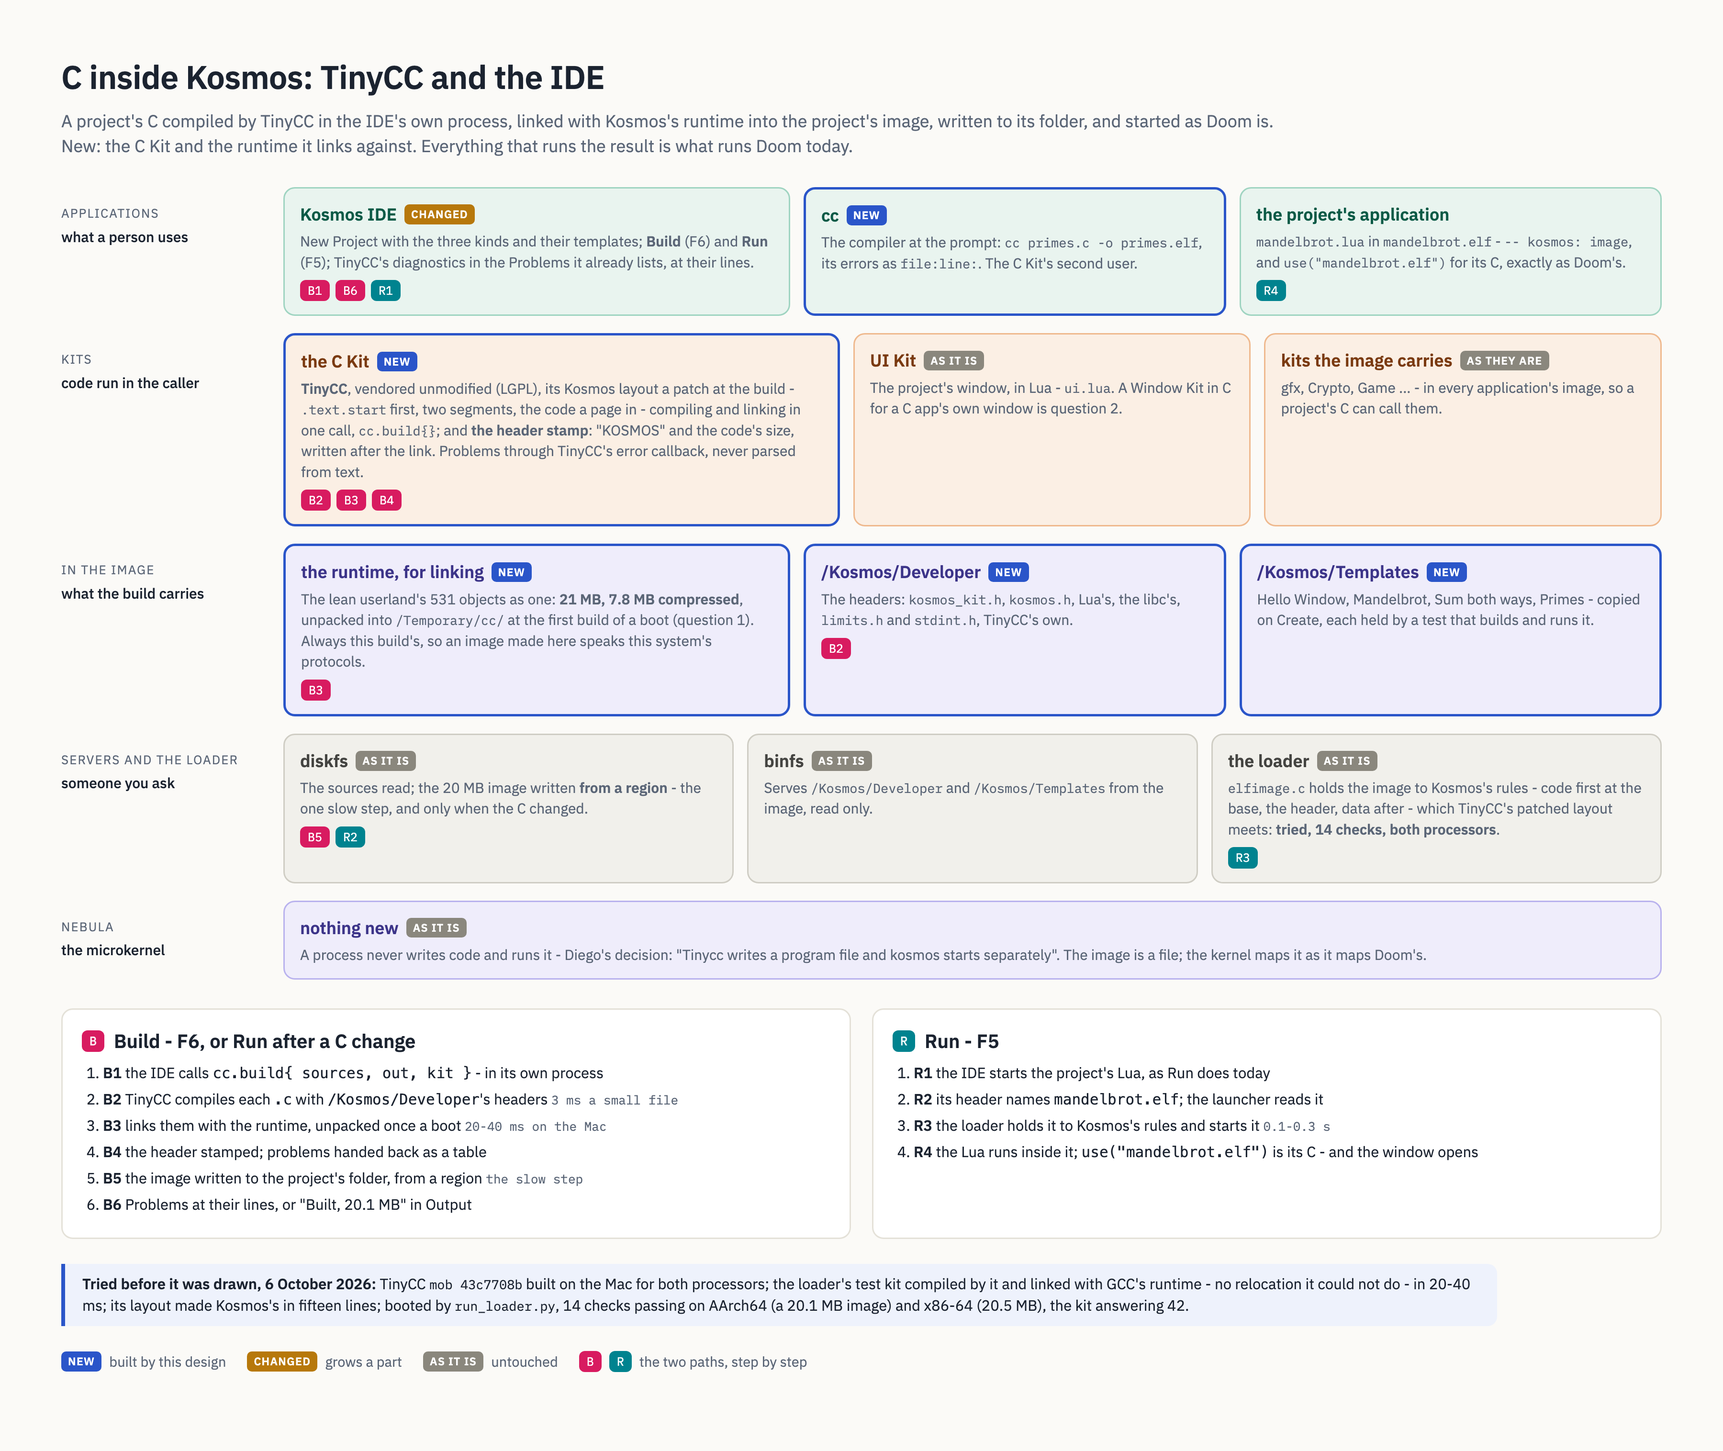
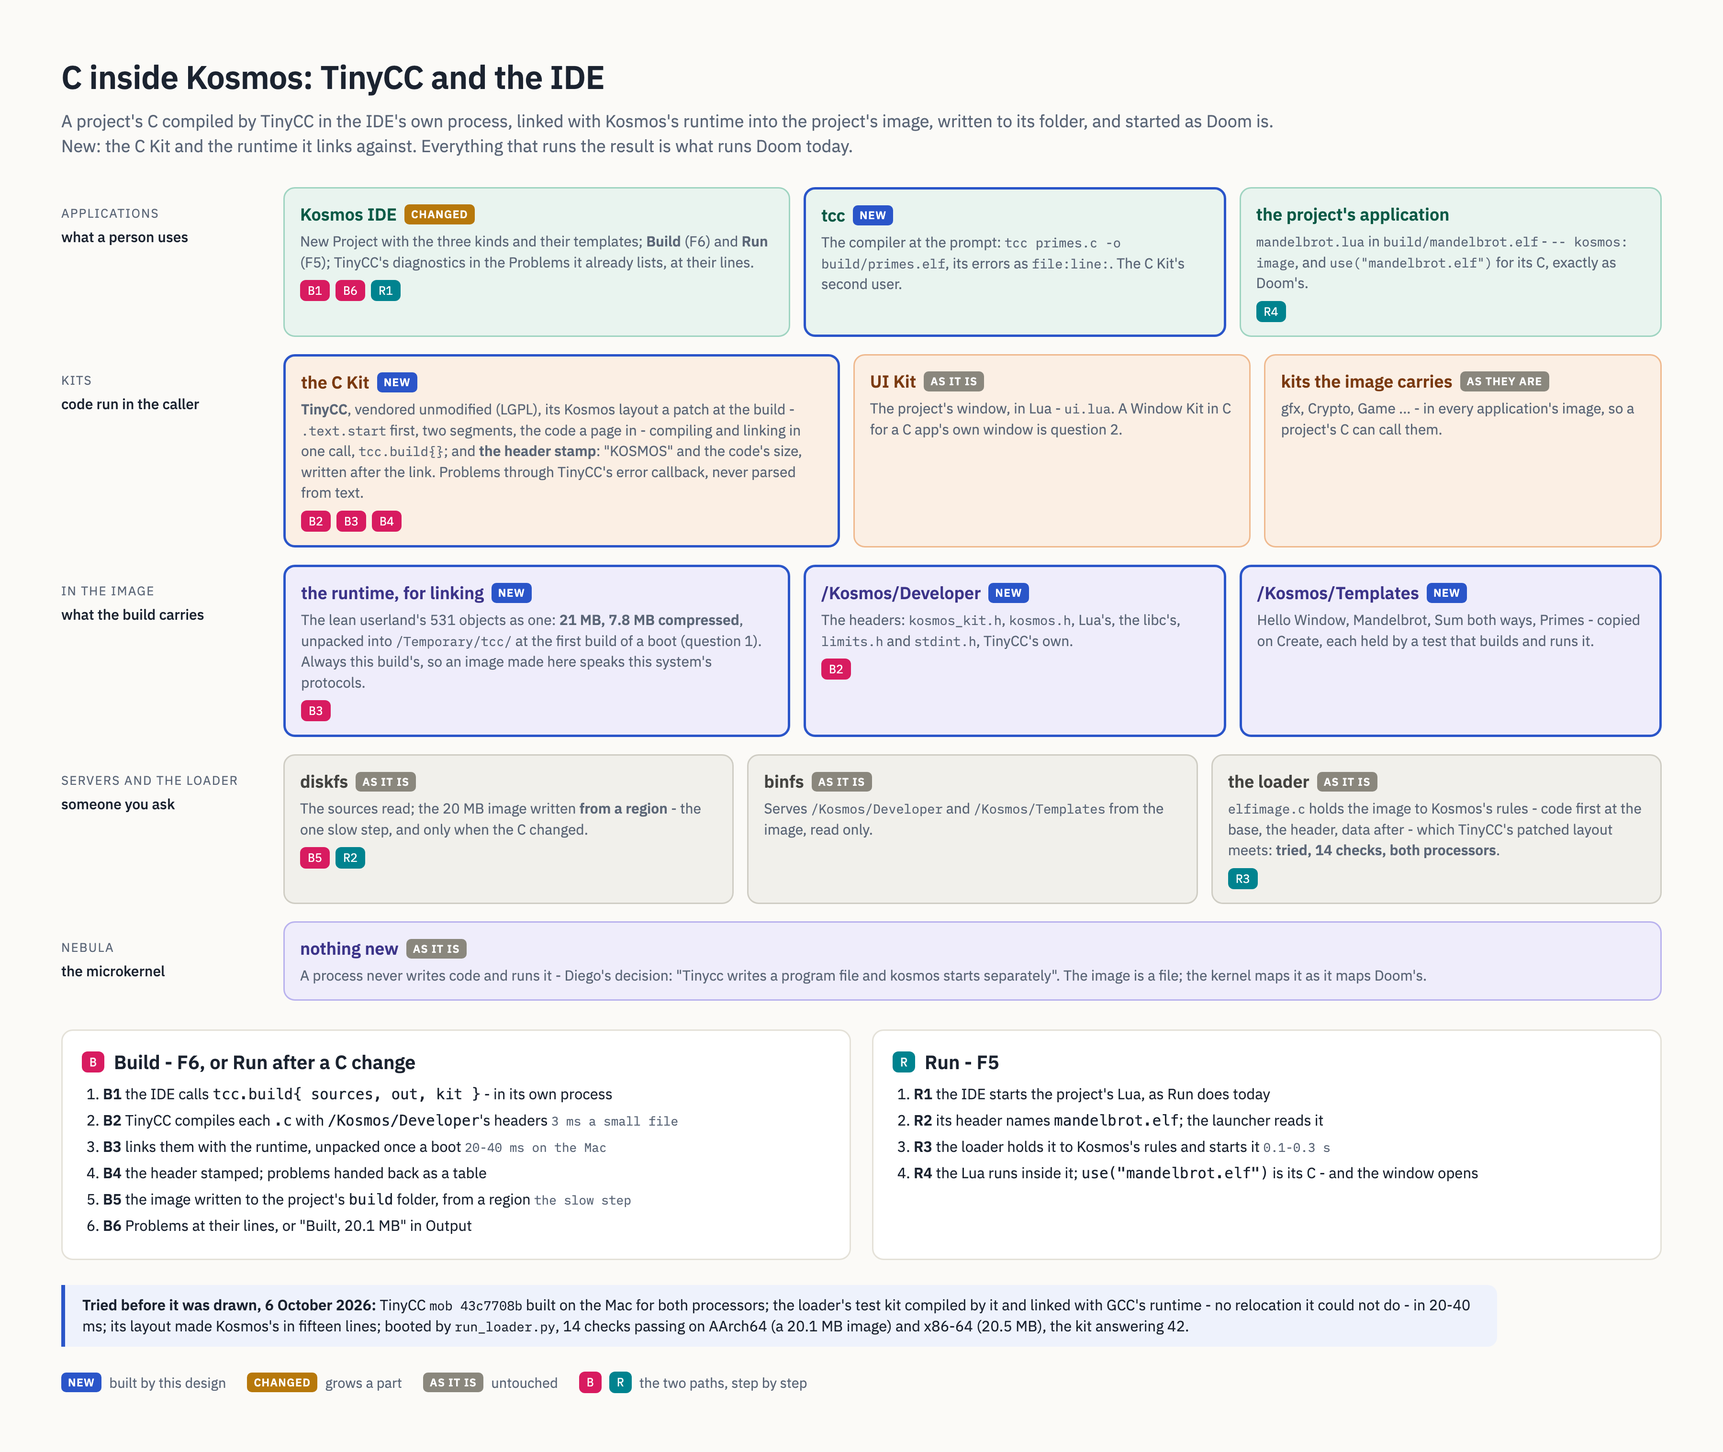
TinyCC: Diego's answers - the runtime in the image, C apps print first, the four templates, a build folder, tcc

diff --git a/docs/tinycc.html b/docs/tinycc.html
@@ -161,7 +161,7 @@
     <button data-s="new" aria-pressed="true">New Project</button>
     <button data-s="err" aria-pressed="false">Build: an error at its line</button>
     <button data-s="run" aria-pressed="false">Built, and running</button>
-    <button data-s="cc" aria-pressed="false">cc at the prompt</button>
+    <button data-s="cc" aria-pressed="false">tcc at the prompt</button>
   </div>
 
   <div class="stage">
@@ -211,7 +211,7 @@
             <div class="row">&#9662; Mandelbrot<span class="k">Lua + C</span></div>
             <div class="row"><span class="ind"></span>mandelbrot.lua</div>
             <div class="row on"><span class="ind"></span>fractal.c</div>
-            <div class="row made"><span class="ind"></span>mandelbrot.elf<span class="k">made</span></div>
+            <div class="row made"><span class="ind"></span>&#9662; build<span class="k">made</span></div><div class="row made"><span class="ind"></span><span class="ind"></span>mandelbrot.elf</div>
             <div class="cap" style="margin-top:14px">Kosmos</div>
             <div class="row">&#9656; Libraries</div><div class="row">&#9656; Kits</div><div class="row">&#9656; Developer &middot; headers</div>
           </div>
@@ -267,13 +267,13 @@
             <div class="row">&#9662; Mandelbrot<span class="k">Lua + C</span></div>
             <div class="row on"><span class="ind"></span>mandelbrot.lua</div>
             <div class="row"><span class="ind"></span>fractal.c</div>
-            <div class="row made"><span class="ind"></span>mandelbrot.elf<span class="k">20.1 MB</span></div>
+            <div class="row made"><span class="ind"></span>&#9662; build<span class="k">made</span></div><div class="row made"><span class="ind"></span><span class="ind"></span>mandelbrot.elf<span class="k">20.1 MB</span></div>
           </div>
           <div class="main">
             <div class="tabs"><div class="tab on">mandelbrot.lua</div><div class="tab">fractal.c</div></div>
             <div class="code">
 <div class="ln"><span class="n">1</span><span><span class="com">-- kosmos: application</span></span></div>
-<div class="ln"><span class="n">2</span><span><span class="com">-- kosmos: image mandelbrot.elf</span></span></div>
+<div class="ln"><span class="n">2</span><span><span class="com">-- kosmos: image build/mandelbrot.elf</span></span></div>
 <div class="ln"><span class="n">3</span><span></span></div>
 <div class="ln"><span class="n">4</span><span><span class="kw">local</span> ui = <span class="fn">use</span>(<span class="str">"/Kosmos/Libraries/ui.lua"</span>)</span></div>
 <div class="ln"><span class="n">5</span><span><span class="kw">local</span> fractal = <span class="fn">use</span>(<span class="str">"mandelbrot.elf"</span>)   <span class="com">-- the C, in this image</span></span></div>
@@ -289,7 +289,7 @@
               <div class="ptabs"><div class="ptab">Problems</div><div class="ptab on">Output</div></div>
               <div class="out">
                 <div class="d">Build: fractal.c compiled in 4 ms, linked with Kosmos's runtime in 0.16 s</div>
-                <div class="ok">Built mandelbrot.elf - 20.1 MB, written in 1.9 s</div>
+                <div class="ok">Built build/mandelbrot.elf - 20.1 MB, written in 1.9 s</div>
                 <div class="d">Run: mandelbrot.lua, in mandelbrot.elf</div>
                 <div>C: 38 ms for 166,400 pixels</div>
                 <div>Lua alone: 1,240 ms - the same picture</div>
@@ -306,12 +306,12 @@
     <div class="state" id="s-cc">
       <div class="term"><div class="bar">Terminal <span>/Home/Projects/Primes</span></div>
 <pre><span class="p">kosmos&gt;</span> ls
-primes.c   primes.lua
-<span class="p">kosmos&gt;</span> cc primes.c -o primes.elf
+build/   primes.c   primes.lua
+<span class="p">kosmos&gt;</span> tcc primes.c -o build/primes.elf
 <span class="e">primes.c:9:12: error: 'limit' undeclared</span>
 <span class="p">kosmos&gt;</span> edit primes.c
-<span class="p">kosmos&gt;</span> cc primes.c -o primes.elf
-<span class="ok">cc: primes.elf, 20.1 MB - compiled in 3 ms, linked in 0.16 s</span>
+<span class="p">kosmos&gt;</span> tcc primes.c -o build/primes.elf
+<span class="ok">tcc: build/primes.elf, 20.1 MB - compiled in 3 ms, linked in 0.16 s</span>
 <span class="p">kosmos&gt;</span> ./primes.lua 10000000
 664579 primes under 10000000, in 1.42 s
 <span class="p">kosmos&gt;</span> <span class="d">_</span></pre>
@@ -325,7 +325,7 @@ primes.c   primes.lua
     <div><b>Build</b> (F6) compiles the C with TinyCC and links it with Kosmos's runtime into the project's image. Its errors are the Problems the IDE already lists, each a click from its line. A build that fails writes nothing.</div>
     <div><b>Run</b> (F5) builds first when a C file changed, then starts the Lua inside the image - <code>-- kosmos: image</code>, as Doom is. A change to the Lua alone builds nothing.</div>
     <div><b>The image is made, not written</b>: greyed in the tree, with its size. It is a whole program, so the project folder can be copied to another Kosmos and run there.</div>
-    <div><b><code>cc</code></b> is the same compiler at the prompt - in a Terminal, over telnet, after editing in Write.</div>
+    <div><b><code>tcc</code></b> is the same compiler at the prompt - in a Terminal, over telnet, after editing in Write.</div>
     <div><b>Not drawn</b>: a C app with a window of its own (question 2 in <code>docs/tinycc.md</code>), and a debugger, which is later.</div>
   </div>
 </div>

diff --git a/docs/tinycc-architecture.html b/docs/tinycc-architecture.html
@@ -85,11 +85,11 @@
         <p>New Project with the three kinds and their templates; <b>Build</b> (F6) and <b>Run</b> (F5);
         TinyCC's diagnostics in the Problems it already lists, at their lines.</p>
         <div class="steps"><span class="st b">B1</span><span class="st b">B6</span><span class="st r">R1</span></div></div>
-      <div class="box u isnew"><h3>cc <span class="tag new">new</span></h3>
-        <p>The compiler at the prompt: <code>cc primes.c -o primes.elf</code>, its errors as <code>file:line:</code>.
+      <div class="box u isnew"><h3>tcc <span class="tag new">new</span></h3>
+        <p>The compiler at the prompt: <code>tcc primes.c -o build/primes.elf</code>, its errors as <code>file:line:</code>.
         The C Kit's second user.</p></div>
       <div class="box u"><h3>the project's application</h3>
-        <p><code>mandelbrot.lua</code> in <code>mandelbrot.elf</code> - <code>-- kosmos: image</code>, and
+        <p><code>mandelbrot.lua</code> in <code>build/mandelbrot.elf</code> - <code>-- kosmos: image</code>, and
         <code>use("mandelbrot.elf")</code> for its C, exactly as Doom's.</p>
         <div class="steps"><span class="st r">R4</span></div></div>
     </div></div>
@@ -98,7 +98,7 @@
     <div class="row" style="grid-template-columns: 1.4fr 1fr 1fr">
       <div class="box k isnew"><h3>the C Kit <span class="tag new">new</span></h3>
         <p><b>TinyCC</b>, vendored unmodified (LGPL), its Kosmos layout a patch at the build - <code>.text.start</code> first,
-        two segments, the code a page in - compiling and linking in one call, <code>cc.build{}</code>;
+        two segments, the code a page in - compiling and linking in one call, <code>tcc.build{}</code>;
         and <b>the header stamp</b>: "KOSMOS" and the code's size, written after the link.
         Problems through TinyCC's error callback, never parsed from text.</p>
         <div class="steps"><span class="st b">B2</span><span class="st b">B3</span><span class="st b">B4</span></div></div>
@@ -112,7 +112,7 @@
     <div class="row" style="grid-template-columns: 1.2fr 1fr 1fr">
       <div class="box n isnew"><h3>the runtime, for linking <span class="tag new">new</span></h3>
         <p>The lean userland's 531 objects as one: <b>21 MB, 7.8 MB compressed</b>, unpacked into
-        <code>/Temporary/cc/</code> at the first build of a boot (question 1). Always this build's, so an image
+        <code>/Temporary/tcc/</code> at the first build of a boot (question 1). Always this build's, so an image
         made here speaks this system's protocols.</p>
         <div class="steps"><span class="st b">B3</span></div></div>
       <div class="box n isnew"><h3>/Kosmos/Developer <span class="tag new">new</span></h3>
@@ -144,11 +144,11 @@
   <div class="paths">
     <div class="path"><h2><span class="st b">B</span> Build - F6, or Run after a C change</h2>
       <ol>
-        <li><b>B1</b> the IDE calls <code>cc.build{ sources, out, kit }</code> - in its own process</li>
+        <li><b>B1</b> the IDE calls <code>tcc.build{ sources, out, kit }</code> - in its own process</li>
         <li><b>B2</b> TinyCC compiles each <code>.c</code> with <code>/Kosmos/Developer</code>'s headers <span class="t">3 ms a small file</span></li>
         <li><b>B3</b> links them with the runtime, unpacked once a boot <span class="t">20-40 ms on the Mac</span></li>
         <li><b>B4</b> the header stamped; problems handed back as a table</li>
-        <li><b>B5</b> the image written to the project's folder, from a region <span class="t">the slow step</span></li>
+        <li><b>B5</b> the image written to the project's <code>build</code> folder, from a region <span class="t">the slow step</span></li>
         <li><b>B6</b> Problems at their lines, or "Built, 20.1 MB" in Output</li>
       </ol></div>
     <div class="path"><h2><span class="st r">R</span> Run - F5</h2>

diff --git a/docs/tinycc.md b/docs/tinycc.md
@@ -54,7 +54,7 @@ start with".
 
 ### At the prompt
 
-- **`cc`**, the compiler as a program: `cc primes.c -o primes.elf` - the same
+- **`tcc`**, the compiler as a program: `tcc primes.c -o build/primes.elf` - the same
   build the IDE does, its diagnostics as `file:line: error: ...` - for a C
   program written in Write, in a Terminal, or over telnet.
 
@@ -124,8 +124,8 @@ work: where things live, and what each piece is.
 |---|---|---|
 | **New Project, Build, Run, Problems** | the IDE's | `ide.lua`, grown; New Project a dialog of its own |
 | **Templates** | three project folders, read-only, copied on Create | `/Kosmos/Templates/` in the image, new |
-| **The compiler** | TinyCC, compiling and linking in one process | **the C Kit**, new: `user/kits/cc/`, TinyCC vendored unmodified in `runtime/upstream/tinycc/` with a Kosmos patch applied at the build |
-| **`cc`** | the compiler at the prompt | `user/bin/programs/cc.lua`, new, the C Kit's first user |
+| **The compiler** | TinyCC, compiling and linking in one process | **the C Kit**, new: `user/kits/tcc/`, TinyCC vendored unmodified in `runtime/upstream/tinycc/` with a Kosmos patch applied at the build |
+| **`tcc`** | the compiler at the prompt | `user/bin/programs/tcc.lua`, new, the C Kit's first user |
 | **The runtime it links against** | the lean userland as one object | built by `make` as `runtime.o`, carried compressed (question 1) |
 | **The headers** | `kosmos.h`, the libc's, Lua's, `limits.h` and `stdint.h`, TinyCC's own | carried beside the runtime, `/Kosmos/Developer/include` |
 | **The header stamp** | "KOSMOS" and the code's size, after the link | the C Kit, 30 lines, from `elfimage.c`'s own reading of an ELF |
@@ -141,18 +141,18 @@ step 3 and 4 of the IDE. What is new is the compiler, where its inputs live,
 and a dialog.
 
 **Does another application want it?** The compiler, yes - so it is a kit,
-the C Kit, with the IDE and `cc` its first two users; a later Kosmos Write
+the C Kit, with the IDE and `tcc` its first two users; a later Kosmos Write
 macro, a shader editor in Cafesa3D or a plugin host would be the next.
 
 ### The C Kit
 
-`use("/Kosmos/Kits/cc")` gives:
+`use("/Kosmos/Kits/tcc")` gives:
 
 ```lua
-local cc = use("/Kosmos/Kits/cc")
-local r = cc.build{
+local tcc = use("/Kosmos/Kits/tcc")
+local r = tcc.build{
   sources = { "/Home/Projects/Mandelbrot/fractal.c" },
-  out     = "/Home/Projects/Mandelbrot/mandelbrot.elf",
+  out     = "/Home/Projects/Mandelbrot/build/mandelbrot.elf",
   kit     = "mandelbrot",            -- what `use("mandelbrot.elf")` finds
 }
 -- r.ok, r.milliseconds, r.bytes, and r.problems: { { file, line, column,
@@ -201,9 +201,9 @@ TinyCC links every image against the runtime: 21 MB a processor, 7.8 MB
 compressed. Something has to carry it:
 
 - **(a) In the system's image, compressed** - 7.8 MB more in a 36.6 MB
-  image - and unpacked into `/Temporary/cc/` the first time a build asks,
+  image - and unpacked into `/Temporary/tcc/` the first time a build asks,
   21 MB of memory for as long as the machine runs. Nothing to install;
-  `cc` works on every machine Kosmos boots on. **Recommended.**
+  `tcc` works on every machine Kosmos boots on. **Recommended.**
 - (b) On the disk, `/Home/Developer/` - installed by `make install-apps`
   and carried by a stick - nothing in the image, and a machine without it
   cannot build.
@@ -244,7 +244,7 @@ the Lua builds nothing. If it is still felt, the image can be written to
 ### What is C and what is Lua
 
 C: TinyCC, the C Kit, the header stamp. Lua: New Project, the IDE's Build
-and Run, `cc` at the prompt, the templates' Lua.
+and Run, `tcc` at the prompt, the templates' Lua.
 
 ### What is new code, and the order to build it in
 
@@ -260,7 +260,7 @@ Each step its own revision and its own permanent test.
 - **C3 - the C Kit**, TinyCC built for Kosmos itself. *Test*: inside the
   machine, `apptest.c` built and its image run - the whole thing, on the
   machine, without the Mac; a file with an error answered with its line.
-- **C4 - `cc` at the prompt.** *Test*: `cc primes.c -o primes.elf`, then
+- **C4 - `tcc` at the prompt.** *Test*: `tcc primes.c -o build/primes.elf`, then
   the program run; an error's `file:line:` exact.
 - **C5 - the IDE's Build and Run**, problems at their lines. *Test*: the
   display harness opens a project, builds, marks a broken line, fixes it,
@@ -361,3 +361,27 @@ and the code's size rounded up to a page, as `user/user.ld` computes it.
  		   headers itself (and the ELF header as well), it'll
  		   come out with same memory use but will make various
 ```
+
+---
+
+## Diego's decisions, 6 October 2026
+
+Answered the evening it was drawn: "1. a 2. a 3. yes 4. beside de sources
+in a build directory 5. tcc". **Where they differ from what is written
+above, they win.**
+
+1. **The runtime is in the system's image, compressed** - 7.8 MB more -
+   and unpacked into `/Temporary/tcc/` at the first build of a boot.
+2. **C apps print first**; a small **Window Kit in C** is its own step
+   after C6.
+3. **The templates as drawn**: Hello Window (Lua), Mandelbrot and Sum both
+   ways (Lua and C), Primes (C).
+4. **A build goes beside the sources, in a `build` folder**:
+   `/Home/Projects/Mandelbrot/build/mandelbrot.elf`, the project's Lua
+   saying `-- kosmos: image build/mandelbrot.elf`. The folder is made, not
+   written: the tree greys it, and deleting it loses nothing a build does
+   not make again.
+5. **The command is `tcc`**, and the kit with it: `/Kosmos/Kits/tcc`.
+
+So the build order stands as written, C1 to C6, with the Window Kit in C
+after it.

diff --git a/README.md b/README.md
@@ -917,3 +917,4 @@ Design decisions taken outside the documents get recorded here before being prop
 | Oct 2026 | **One inflater, one base64, one door to a surface.** The Compression Kit carried `puff` and miniz's `tinfl`; `tinfl` is the one, and `puff` left the tree. Base64 was the 3D Kit's because Cafesa3D wanted it first and was written again in Lua by `telnetd`; it is the Compression Kit's. Four kits copied the surface's layout and seven declared its pixel accessor, against `gfx_draw.h`'s own rule; one constructor and one check now, so a freed surface is refused everywhere | user/kits/compress, user/kits/gfx/gfx_draw.h, testing.md 18.402 |
 | Oct 2026 | **A reply is addressed by a token the kernel looks up, never by an address.** `SYS_RECEIVE` handed a server the waiting thread's kernel pointer and `SYS_REPLY` used whatever number came back, so a made-up one let a process have the kernel lock and link lists in its own pages - found by the review before 0.11, under a comment that promised a capability at M5. A token is now a slot of the thread pool and the slot's count of calls: the kernel finds the thread in its own pool, and answers only the call that is waiting, from the process that took it. Capabilities by index is the same rule; this was the one place it did not hold | kernel/ipc.c, kernel/thread.c |
 | Oct 2026 | **An argument with a space in it is quoted, and one door writes and reads them.** A program is started with one argument string, and every program split it at spaces, so a path with a space - `/Home/My Pictures/sea photo.png`, opened in Photo from Tracker or a share - arrived as `/Home/My`. The syntax: words separated by spaces; a word in double quotes keeps its spaces; inside, `\"` is a quote and `\\` a backslash; outside quotes nothing else is special, so a word without a space or a quote is typed exactly as before. `files.quote` and `files.line` build an argument string - Tracker, `filetypes.how_to_open`, the Deskbar, the applications that start themselves again - and `files.words` reads one in every program, the prompt, the Terminal and `telnetd`; the window manager takes a program by a path with spaces in it. The filesystems already took any name and are now tested to; a launcher's stored arguments are read as written (`design.md` 8.3g, `testing.md` 18.414). | user/lib/files.lua, user/lib/filetypes.lua, user/bin/apps, user/bin/programs, user/init/init.lua |
+| Oct 2026 | **C is compiled inside Kosmos by TinyCC, into a program file started as any image is.** One C compiler, TinyCC, in the image with Kosmos's runtime compressed beside it to link against; the IDE's projects are Lua, Lua and C, or C, each from a template; a build goes to a `build` folder beside the sources; `tcc` at the prompt. No process writes code and runs it. Tried first: TinyCC links GCC's runtime into an image the loader runs, on both processors (`docs/tinycc.md`). |

diff --git a/docs/roadmap.md b/docs/roadmap.md
@@ -950,7 +950,10 @@ IDE building C programs with it.** **DESIGNED on 6 October, for Diego to agree**
 `docs/tinycc.html` (New Project, Build, Run, `cc`) and
 `docs/tinycc-architecture.png`. **Tried first**: TinyCC links Kosmos's
 GCC-built runtime and its own C into an image the loader accepts and runs -
-14 checks on AArch64 and x86-64, with a fifteen-line layout patch. Diego: "I want just one C compiler",
+14 checks on AArch64 and x86-64, with a fifteen-line layout patch. **Diego's answers, the same evening**: the runtime in the
+image, compressed; C apps print first, a Window Kit in C after; the four
+templates; builds in a `build` folder beside the sources; the command is
+`tcc` (`docs/tinycc.md`, *Diego's decisions*). **Next: C1-C6.** Diego: "I want just one C compiler",
 "What's the best option for kosmos?", then "Yes do that", "Tinycc and ide
 integration so I can build c programs". Chosen over GCC (about 50 MB at the
 least - `cc1` alone is 37 MB, bigger than all of Kosmos - and a separate
